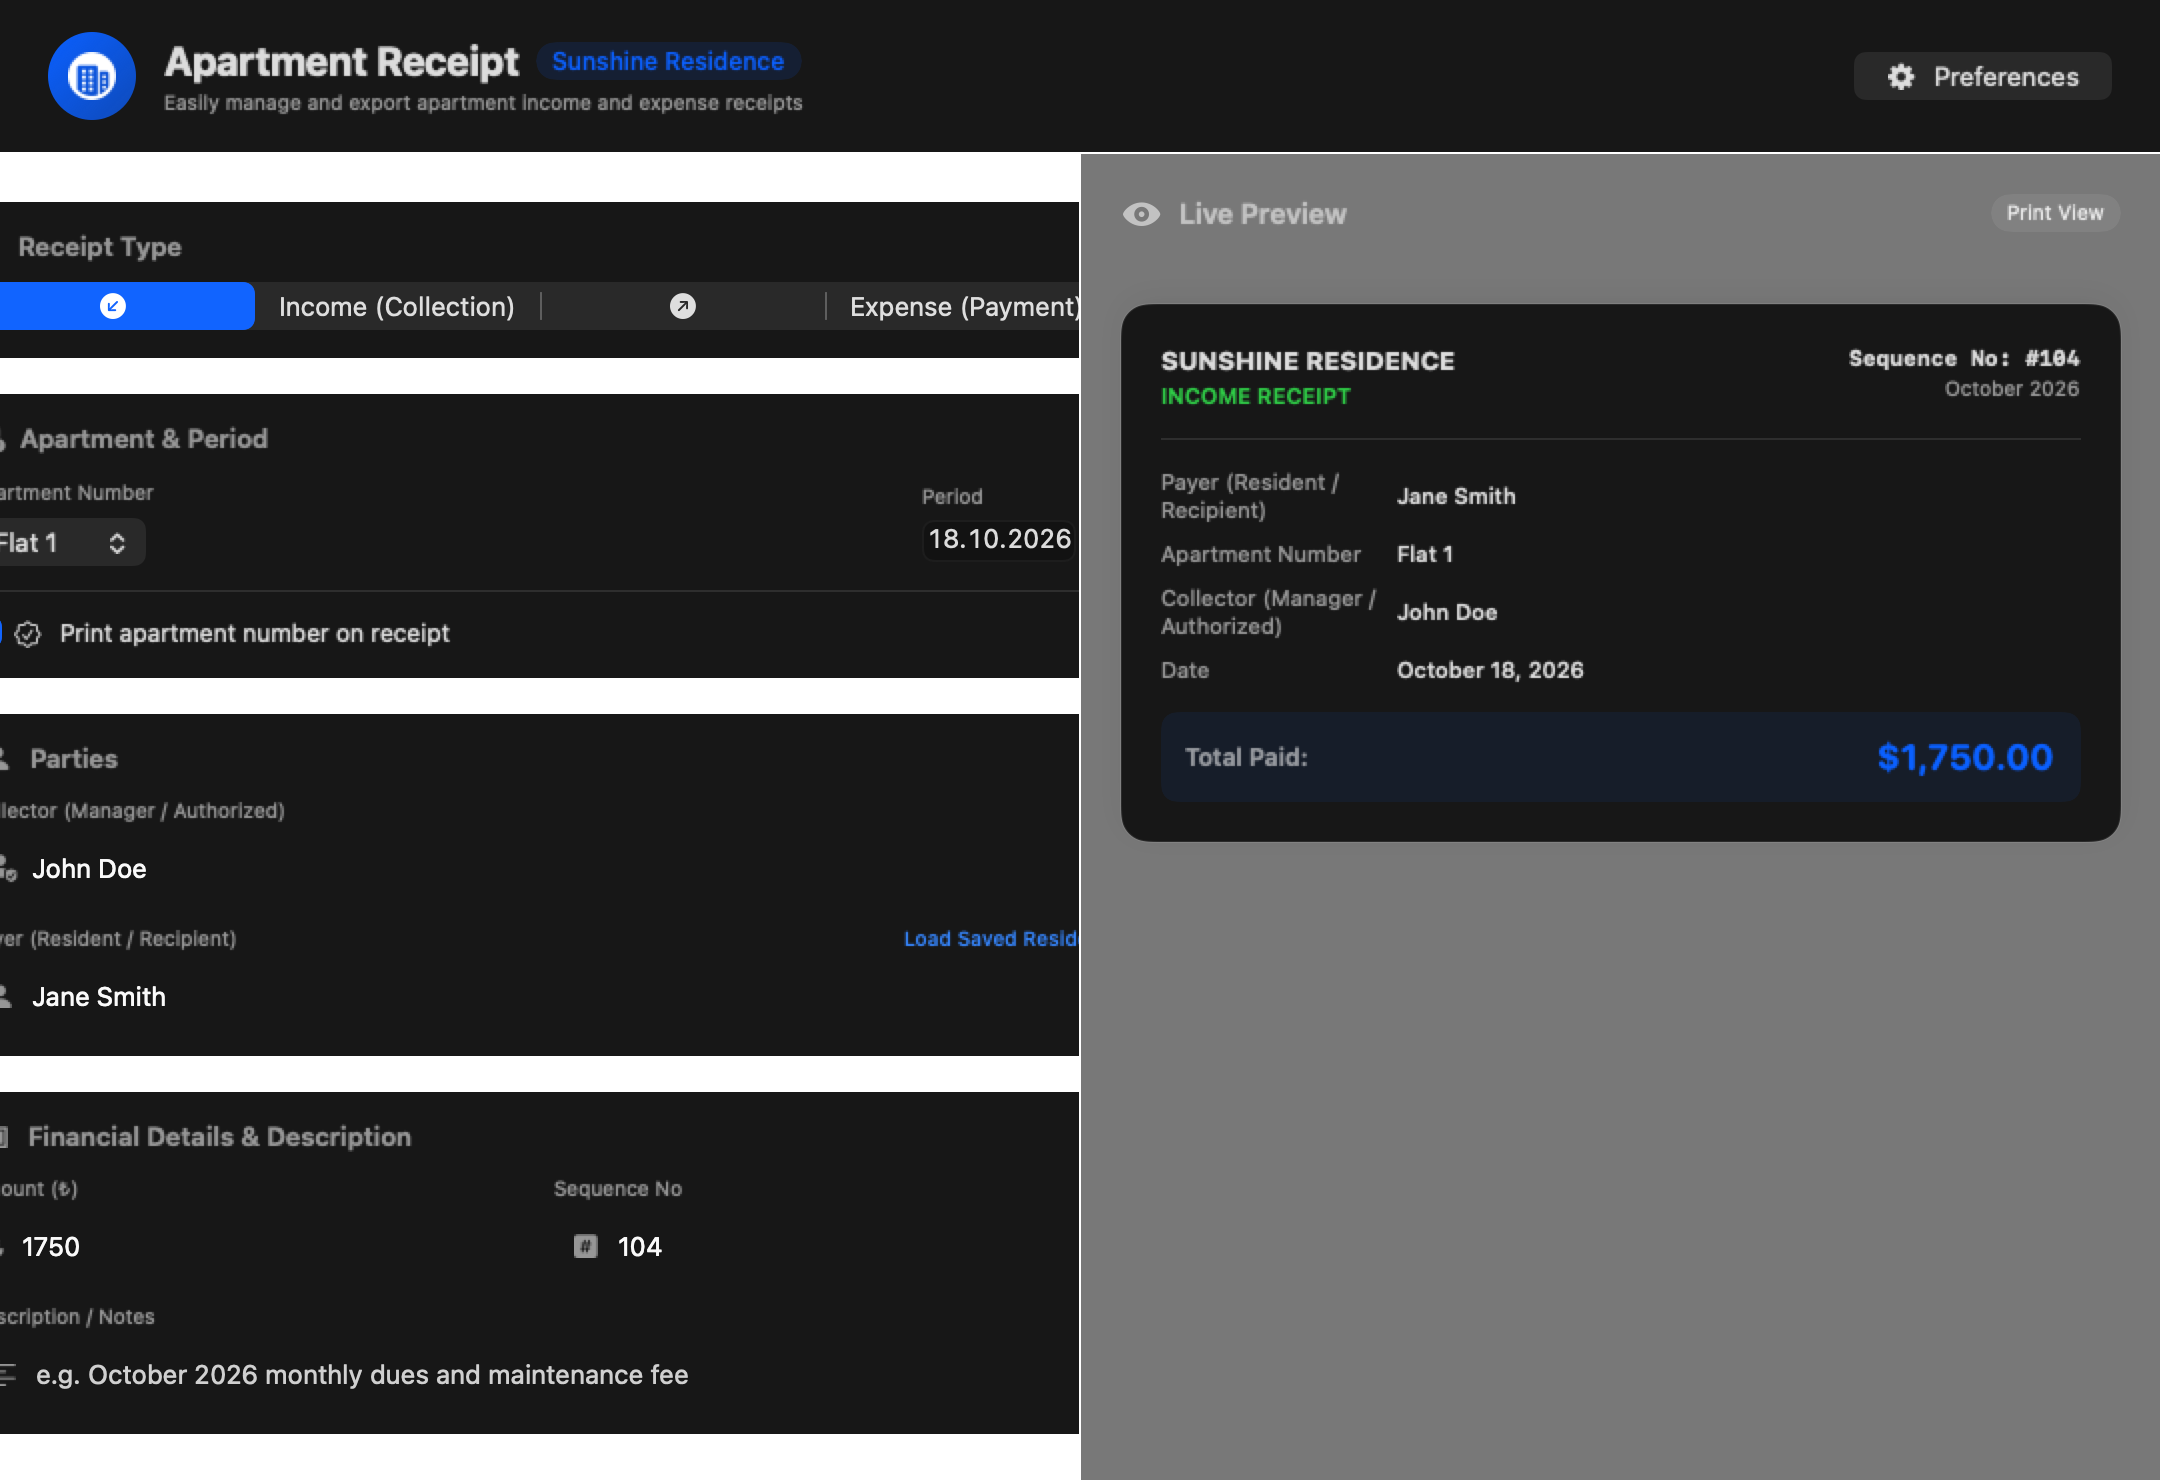
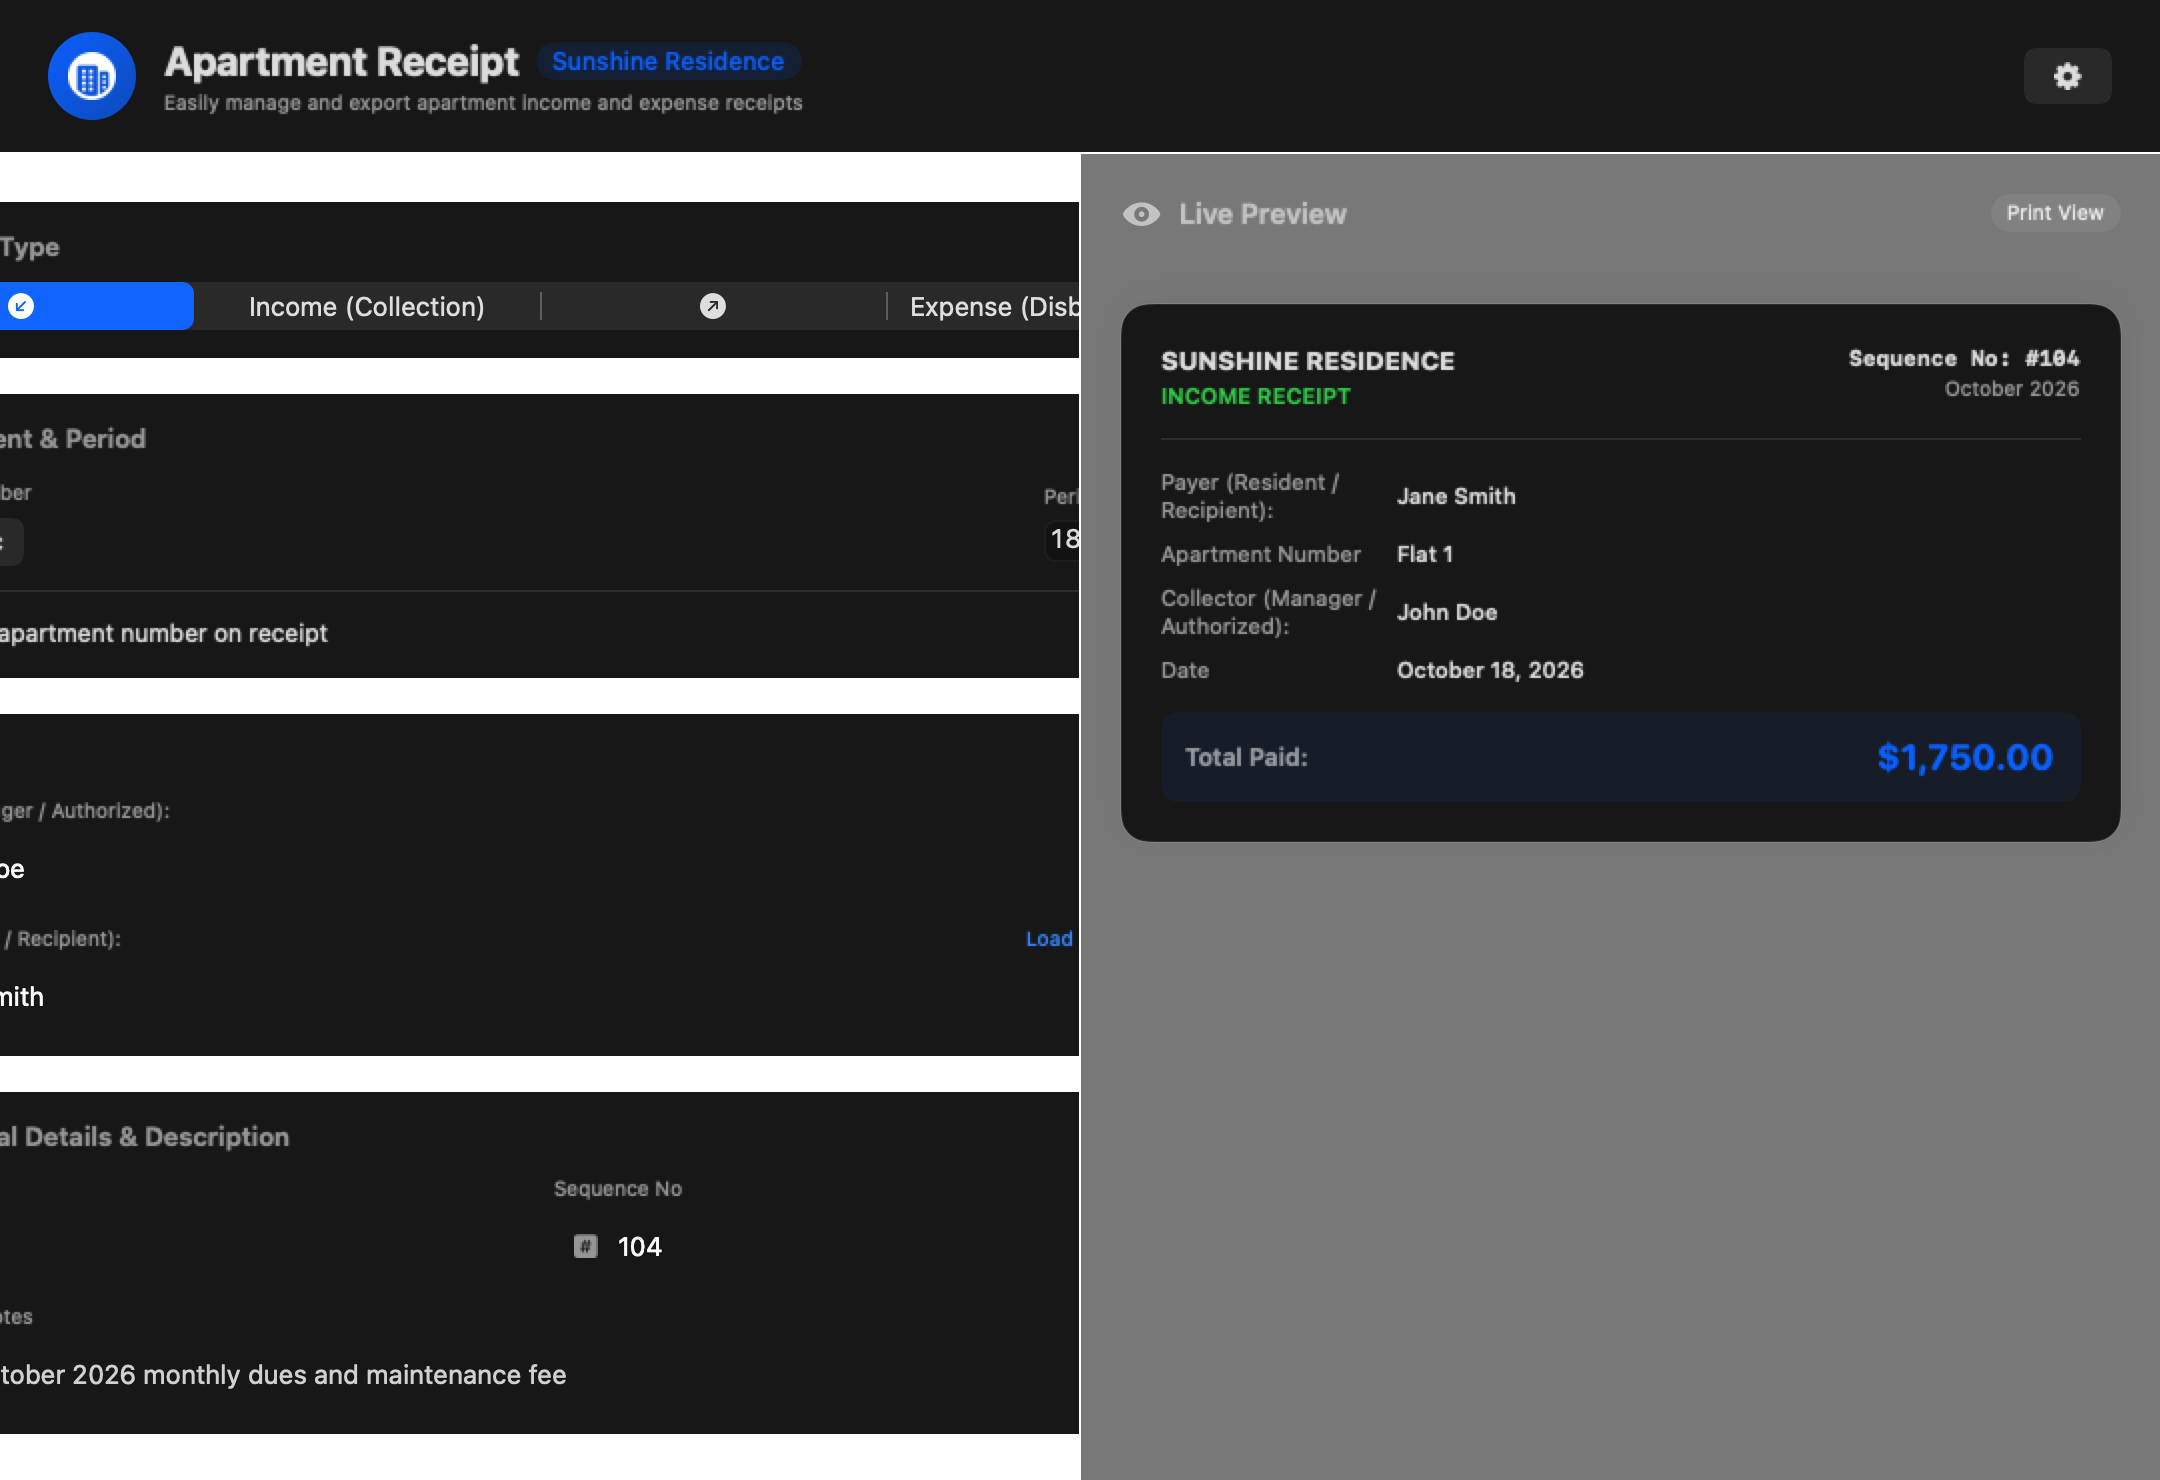
docs @ showcase: 'update ui screenshots including romanian dashboard and update documentation' - [docs]

diff --git a/aptreceipt/AppDelegate.swift b/aptreceipt/AppDelegate.swift
@@ -94,11 +94,11 @@ final class AppDelegate: NSObject, NSApplicationDelegate {
             signatureImage: nil,
             l10n: settings.l10n
         )
-        .frame(width: 780, height: 540)
-        render(view: docView, size: CGSize(width: 780, height: 540), to: outDir.appendingPathComponent("02_receipt_document.png"))
+        .frame(width: 595, height: 842)
+        render(view: docView, size: CGSize(width: 595, height: 842), to: outDir.appendingPathComponent("02_receipt_document.png"))
 
-        // 3. Settings View
-        let settingsView = SettingsView(settings: settings)
+        // 3. Settings View (About & License)
+        let settingsView = SettingsView(settings: settings, initialTab: .about)
             .frame(width: 680, height: 580)
         render(view: settingsView, size: CGSize(width: 680, height: 580), to: outDir.appendingPathComponent("03_settings_view.png"))
 
@@ -121,8 +121,8 @@ final class AppDelegate: NSObject, NSApplicationDelegate {
             signatureImage: nil,
             l10n: settings.l10n
         )
-        .frame(width: 780, height: 540)
-        render(view: docOutcomeView, size: CGSize(width: 780, height: 540), to: outDir.appendingPathComponent("04_receipt_outcome.png"))
+        .frame(width: 595, height: 842)
+        render(view: docOutcomeView, size: CGSize(width: 595, height: 842), to: outDir.appendingPathComponent("04_receipt_outcome.png"))
 
         // 5. English Main Dashboard
         let settingsEN = ReceiptSettingsStore()
@@ -137,6 +137,20 @@ final class AppDelegate: NSObject, NSApplicationDelegate {
         let mainViewEN = MainScreen(settings: settingsEN)
             .frame(width: 1080, height: 740)
         render(view: mainViewEN, size: CGSize(width: 1080, height: 740), to: outDir.appendingPathComponent("05_main_dashboard_en.png"))
+
+        // 6. Romanian Main Dashboard
+        let settingsRO = ReceiptSettingsStore()
+        settingsRO.apartmentName = "Asociația Parcul Tineretului"
+        settingsRO.issuer = "Andrei Popescu"
+        settingsRO.defaultPayment = "1750"
+        settingsRO.seqNumber = 104
+        settingsRO.flatCount = 12
+        settingsRO.language = .romanian
+        settingsRO.saveOwner("Elena Radu", apartmentNumber: 1)
+
+        let mainViewRO = MainScreen(settings: settingsRO)
+            .frame(width: 1080, height: 740)
+        render(view: mainViewRO, size: CGSize(width: 1080, height: 740), to: outDir.appendingPathComponent("06_main_dashboard_ro.png"))
 
         print("Screenshots successfully generated in \(outDir.path)")
     }

diff --git a/README.md b/README.md
@@ -6,14 +6,16 @@ A modern, native macOS application to effortlessly generate, manage, and export 
 
 ## Features
 
-- **Income & Expense Receipts:** Generate official collection (income) and disbursement (expense) receipts.
+- **Official A4 Invoice Format:** Styled to official ISO A4 itemized invoice standards with dual issuer/payer cards, service breakdown table, statutory tax exemption clause, and amounts in words.
+- **Vector PDF & JPEG Export:** Export crystal-clear vector PDF documents with selectable text or high-resolution JPEG images.
+- **Locale-Aware Smart Filenames:** Automatically generates descriptive filenames containing apartment name, document type, flat number, resident, and billing period formatted in the user's selected language.
+- **Trilingual Support (English, Turkish, Romanian):** 1-to-1 localization for English (default), Turkish, and Romanian, automatically resolving to system locale or user choice.
+- **Interactive License Viewer:** Direct read-only inspection of the GNU General Public License v3.0 from Preferences and About windows, highlighting publisher **berkbb**.
 - **Real-Time Live Receipt Preview:** Live interactive preview card dynamically updates as you type.
-- **Multilingual Support (1-to-1):** Full support for English and Turkish with instant language switching in Settings.
 - **Automatic Theme Support:** Light, Dark, and Automatic System appearance modes.
-- **Dedicated Settings Window:** Accessible from the macOS Menu Bar (`Cmd+,` / `Preferences`) with tabbed sections for Building Details, Residents Directory, Appearance & Language, Signature, and About.
+- **Dedicated Settings Window:** Accessible from the macOS Menu Bar (`Cmd+,` / `Preferences`) or the compact gear icon on the main screen, with tabbed sections for Building Details, Residents Directory, Appearance & Language, Signature, and About.
 - **Residents Directory:** Save flat numbers and resident names for one-click auto-fill.
 - **Digital Signature:** Import authorized signature images (PNG/JPEG) to print directly onto exported receipts.
-- **High-Resolution Export:** Export receipts as crystal-clear JPEG image files.
 - **Auto-Incrementing Sequence Numbers:** Receipt numbers increment automatically after generation.
 
 ---
@@ -30,18 +32,20 @@ A modern, native macOS application to effortlessly generate, manage, and export 
   <td><img src="docs/screenshots/05_main_dashboard_en.png" width="480" alt="Main Dashboard English" /></td>
 </tr>
 <tr>
-  <td align="center"><b>Income Receipt Certificate</b></td>
-  <td align="center"><b>Expense Receipt Certificate</b></td>
+  <td align="center"><b>Main Dashboard (Romanian)</b></td>
+  <td align="center"><b>Preferences & About Window (License Viewer)</b></td>
+</tr>
+<tr>
+  <td><img src="docs/screenshots/06_main_dashboard_ro.png" width="480" alt="Main Dashboard Romanian" /></td>
+  <td><img src="docs/screenshots/03_settings_view.png" width="480" alt="Preferences & About" /></td>
+</tr>
+<tr>
+  <td align="center"><b>A4 Income Receipt Certificate (PDF / JPEG)</b></td>
+  <td align="center"><b>A4 Expense Receipt Certificate (PDF / JPEG)</b></td>
 </tr>
 <tr>
   <td><img src="docs/screenshots/02_receipt_document.png" width="480" alt="Income Receipt Certificate" /></td>
   <td><img src="docs/screenshots/04_receipt_outcome.png" width="480" alt="Expense Receipt Certificate" /></td>
-</tr>
-<tr>
-  <td colspan="2" align="center"><b>Preferences & Settings Window</b></td>
-</tr>
-<tr>
-  <td colspan="2" align="center"><img src="docs/screenshots/03_settings_view.png" width="600" alt="Preferences & Settings" /></td>
 </tr>
 </table>
 
